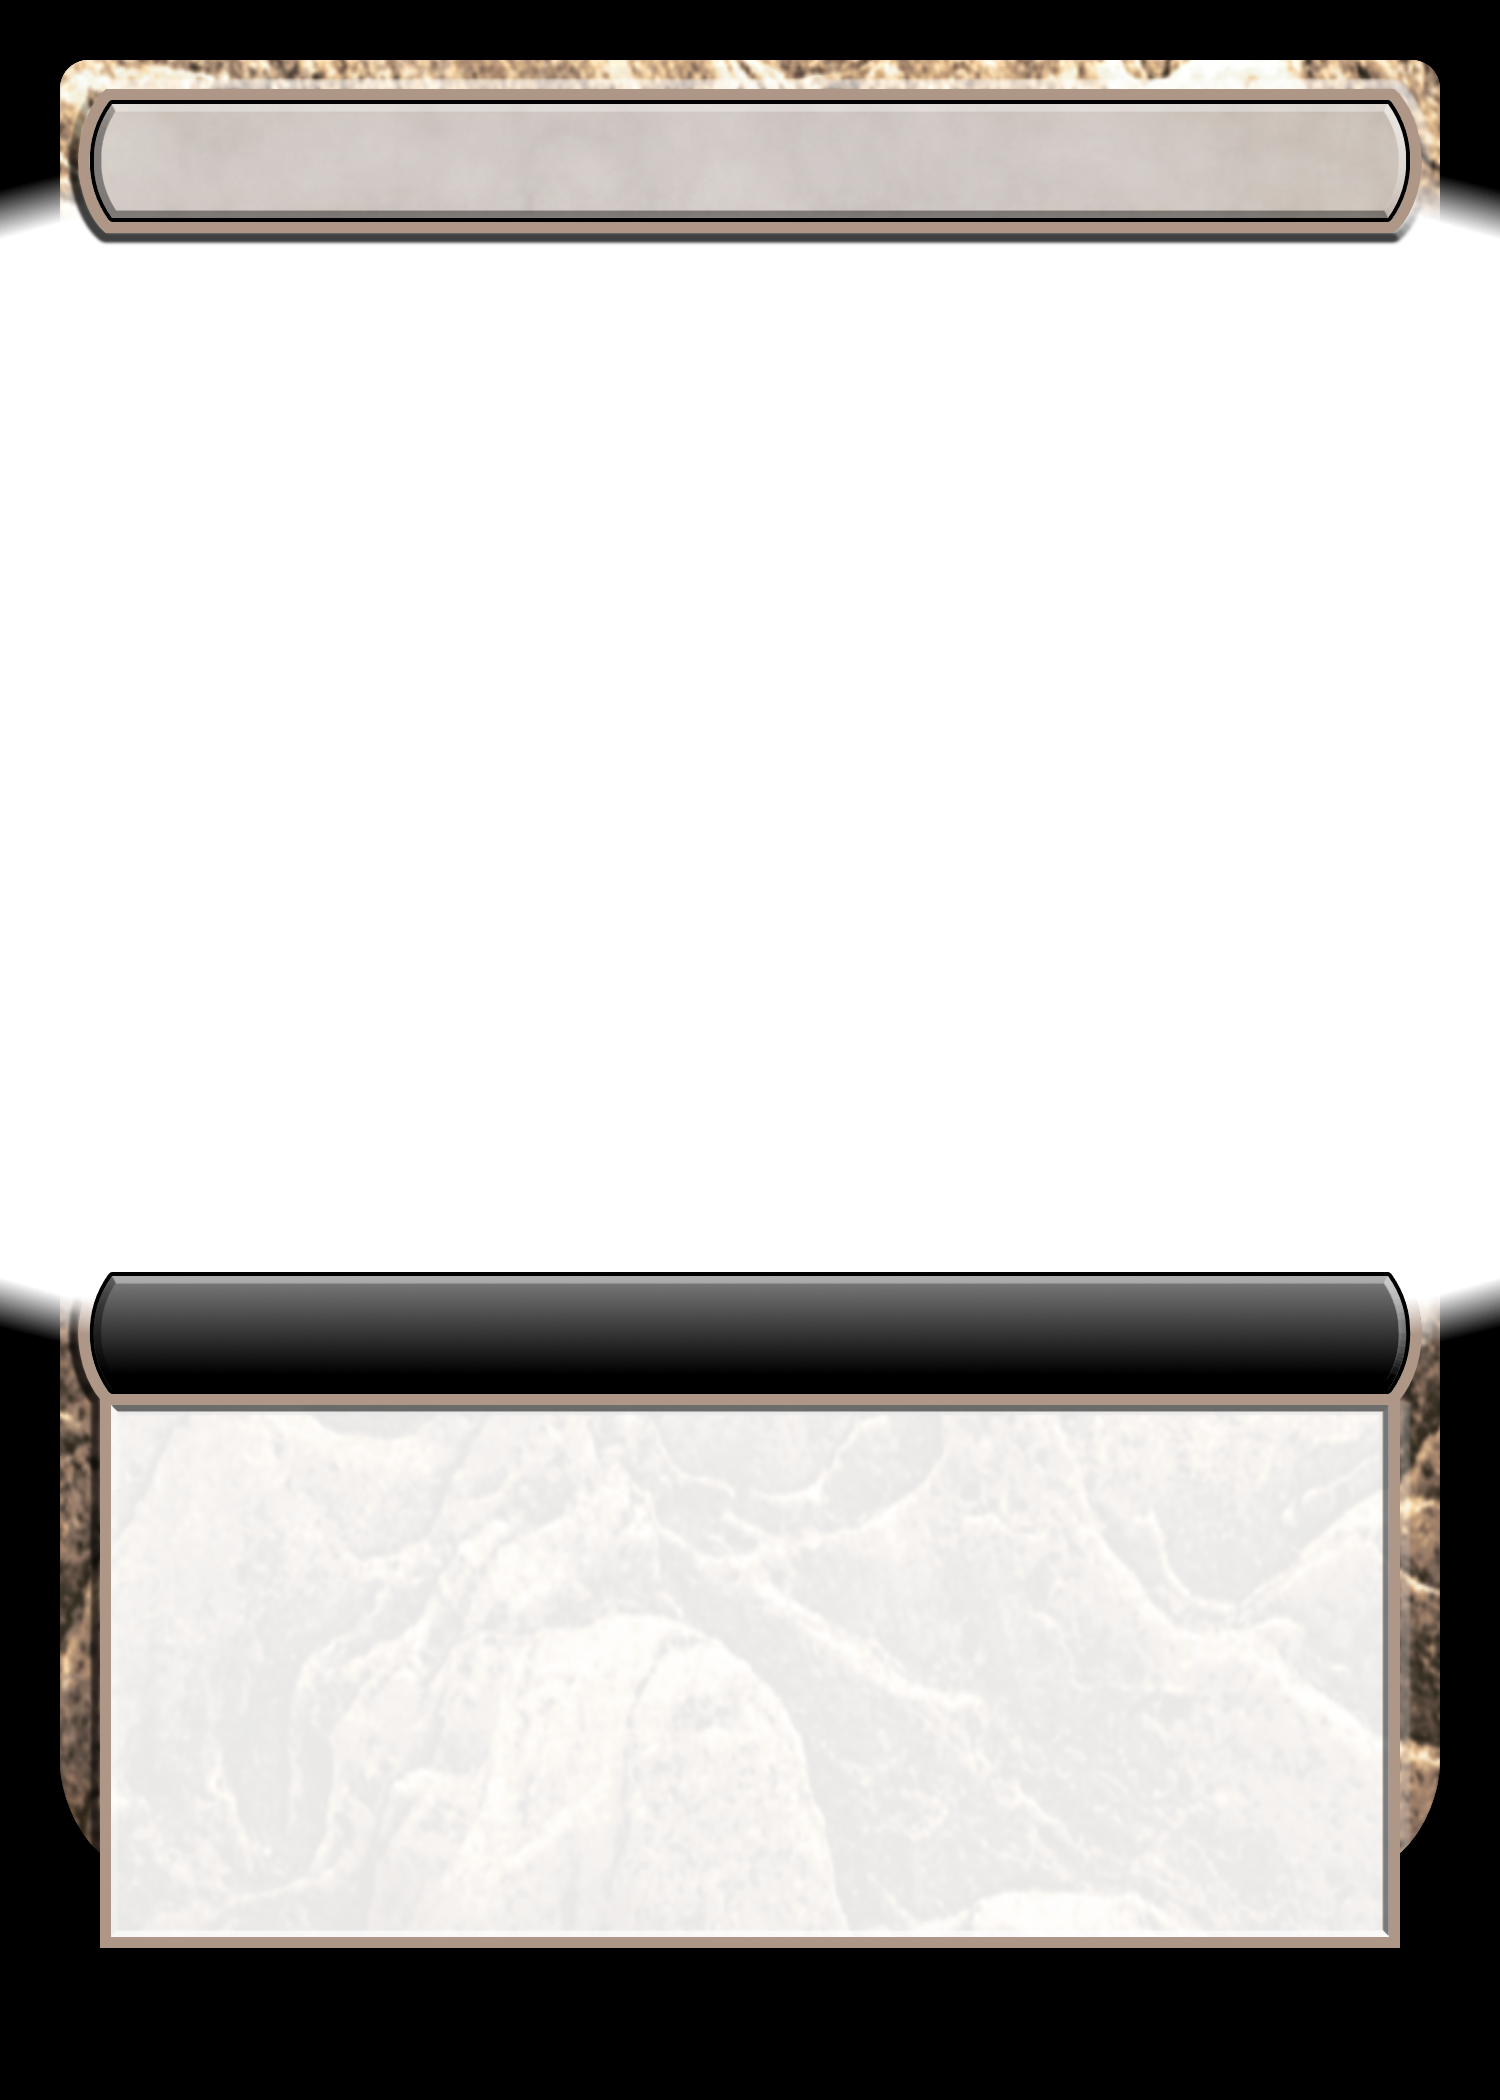
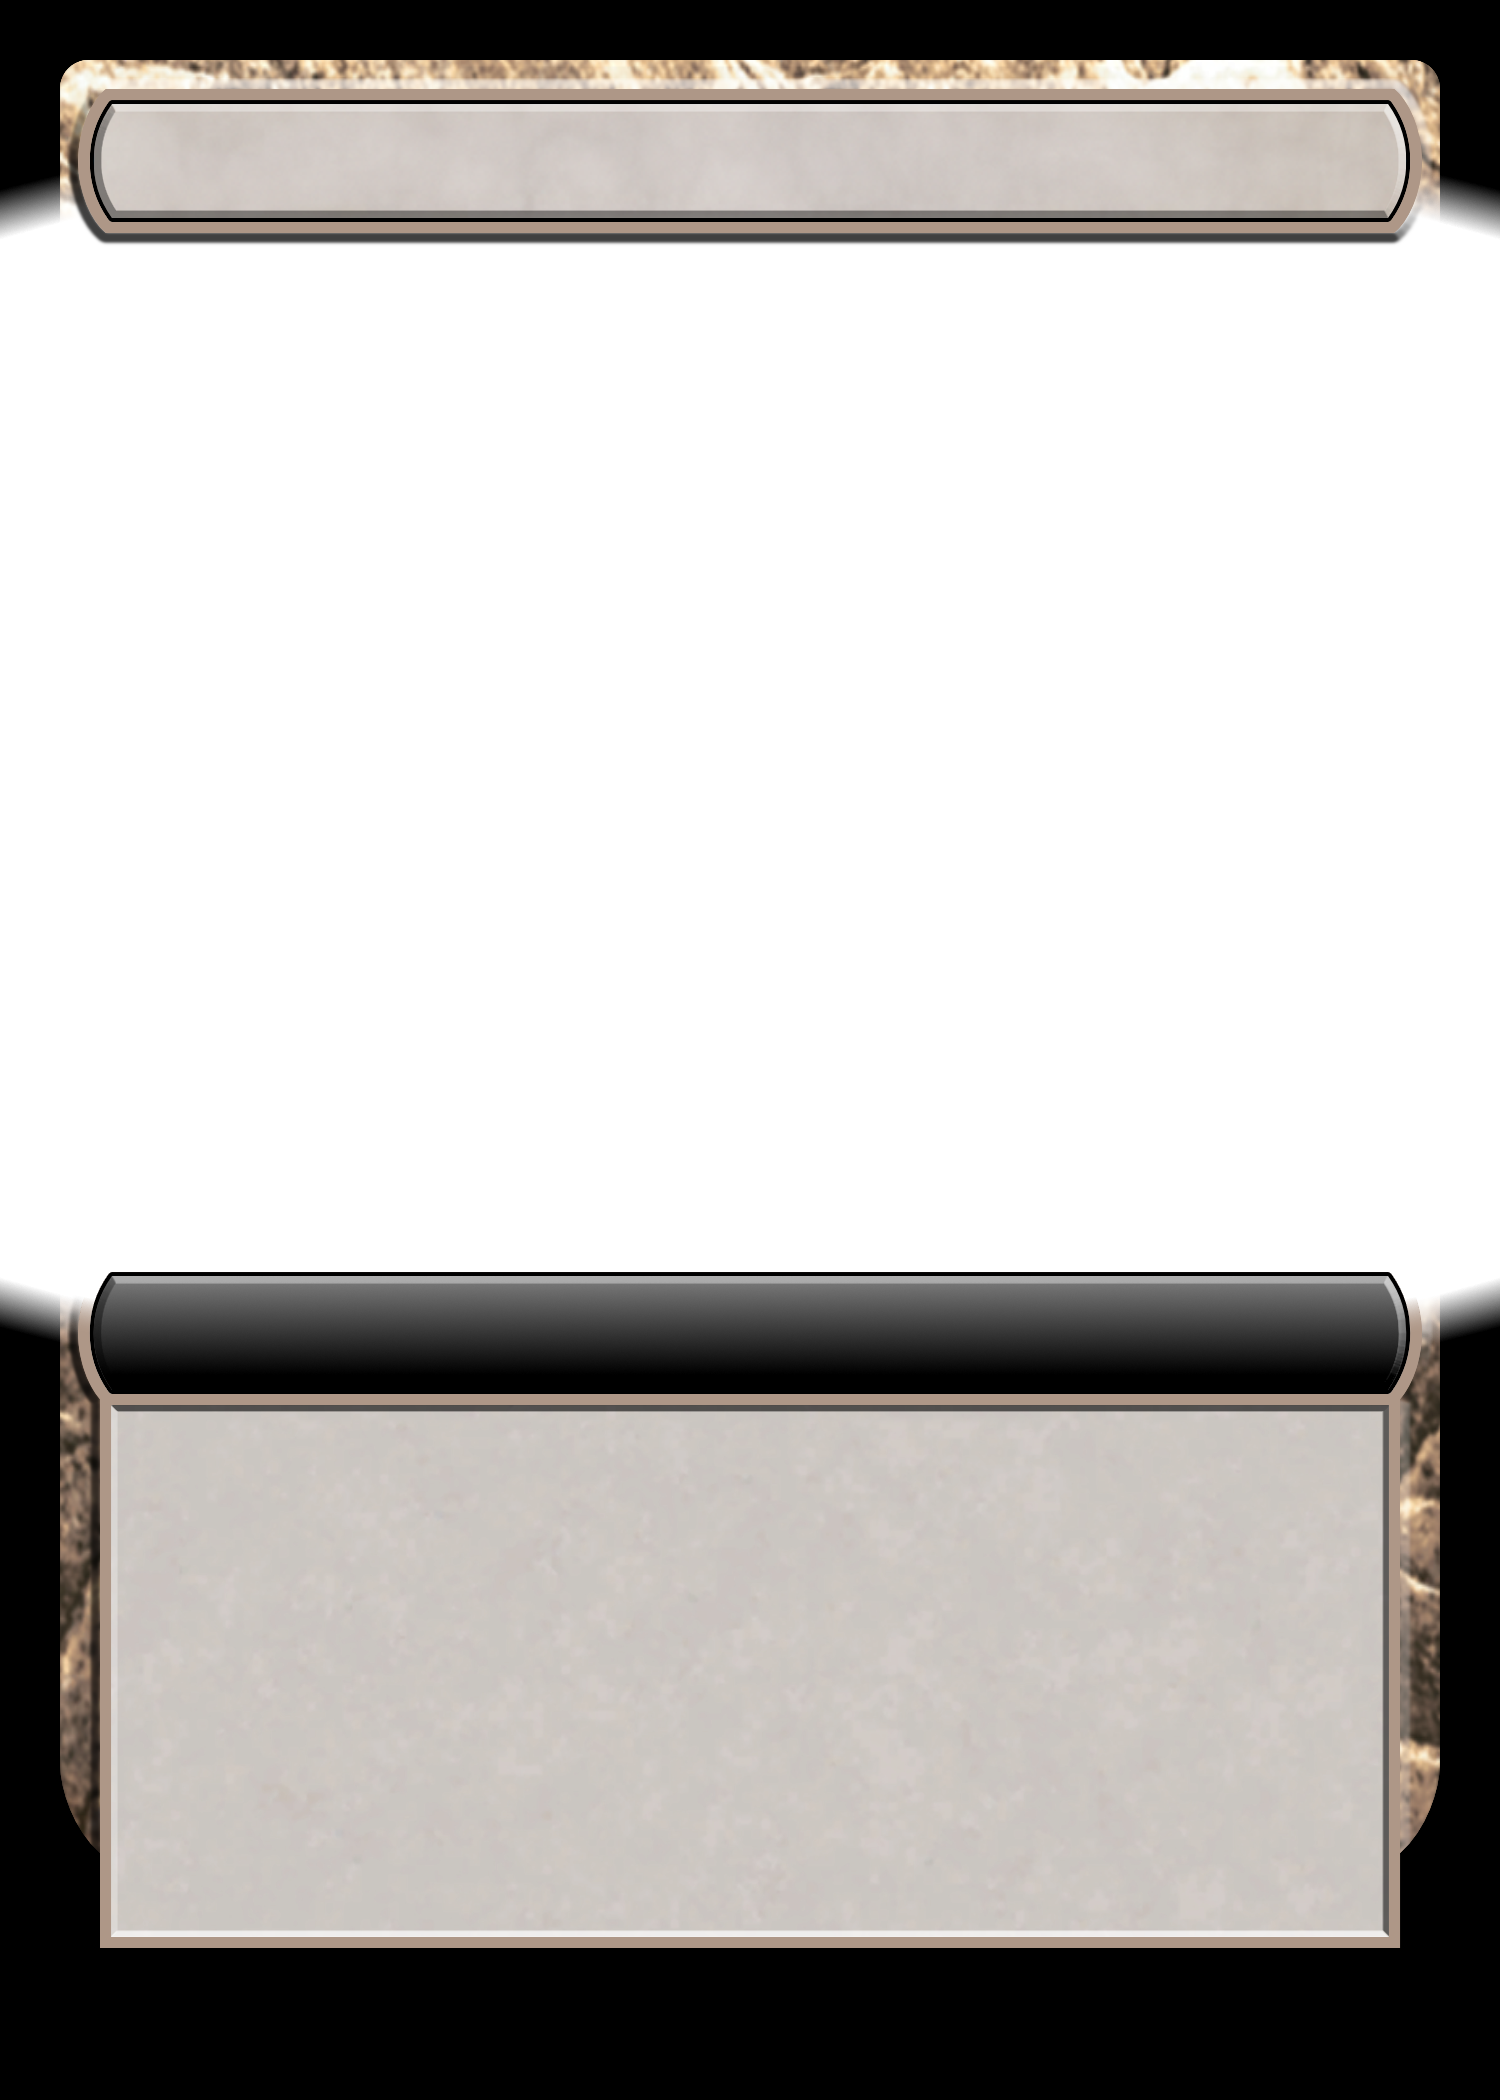
Add/update extended art short land frames

Changed region(s): [[0.0613, 0.65, 0.9507, 0.9286]]

diff --git a/js/frames/packM15ExtendedArtShort.js b/js/frames/packM15ExtendedArtShort.js
@@ -11,6 +11,12 @@ availableFrames = [
 	{name:'Multicolored Frame', src:'/img/frames/m15/boxTopper/short/m.png', masks:masks},
 	{name:'Artifact Frame', src:'/img/frames/m15/boxTopper/short/a.png', masks:masks},
 	{name:'Land Frame', src:'/img/frames/m15/boxTopper/short/l.png', masks:masks},
+	{name:'White Land Frame', src:'/img/frames/m15/boxTopper/short/lw.png', masks:masks},
+	{name:'Blue Land Frame', src:'/img/frames/m15/boxTopper/short/lu.png', masks:masks},
+	{name:'Black Land Frame', src:'/img/frames/m15/boxTopper/short/lb.png', masks:masks},
+	{name:'Red Land Frame', src:'/img/frames/m15/boxTopper/short/lr.png', masks:masks},
+	{name:'Green Land Frame', src:'/img/frames/m15/boxTopper/short/lg.png', masks:masks},
+	{name:'Multicolored Land Frame', src:'/img/frames/m15/boxTopper/short/lm.png', masks:masks},
 	{name:'White Power/Toughness', src:'/img/frames/m15/regular/m15PTW.png', bounds:bounds},
 	{name:'Blue Power/Toughness', src:'/img/frames/m15/regular/m15PTU.png', bounds:bounds},
 	{name:'Black Power/Toughness', src:'/img/frames/m15/regular/m15PTB.png', bounds:bounds},
